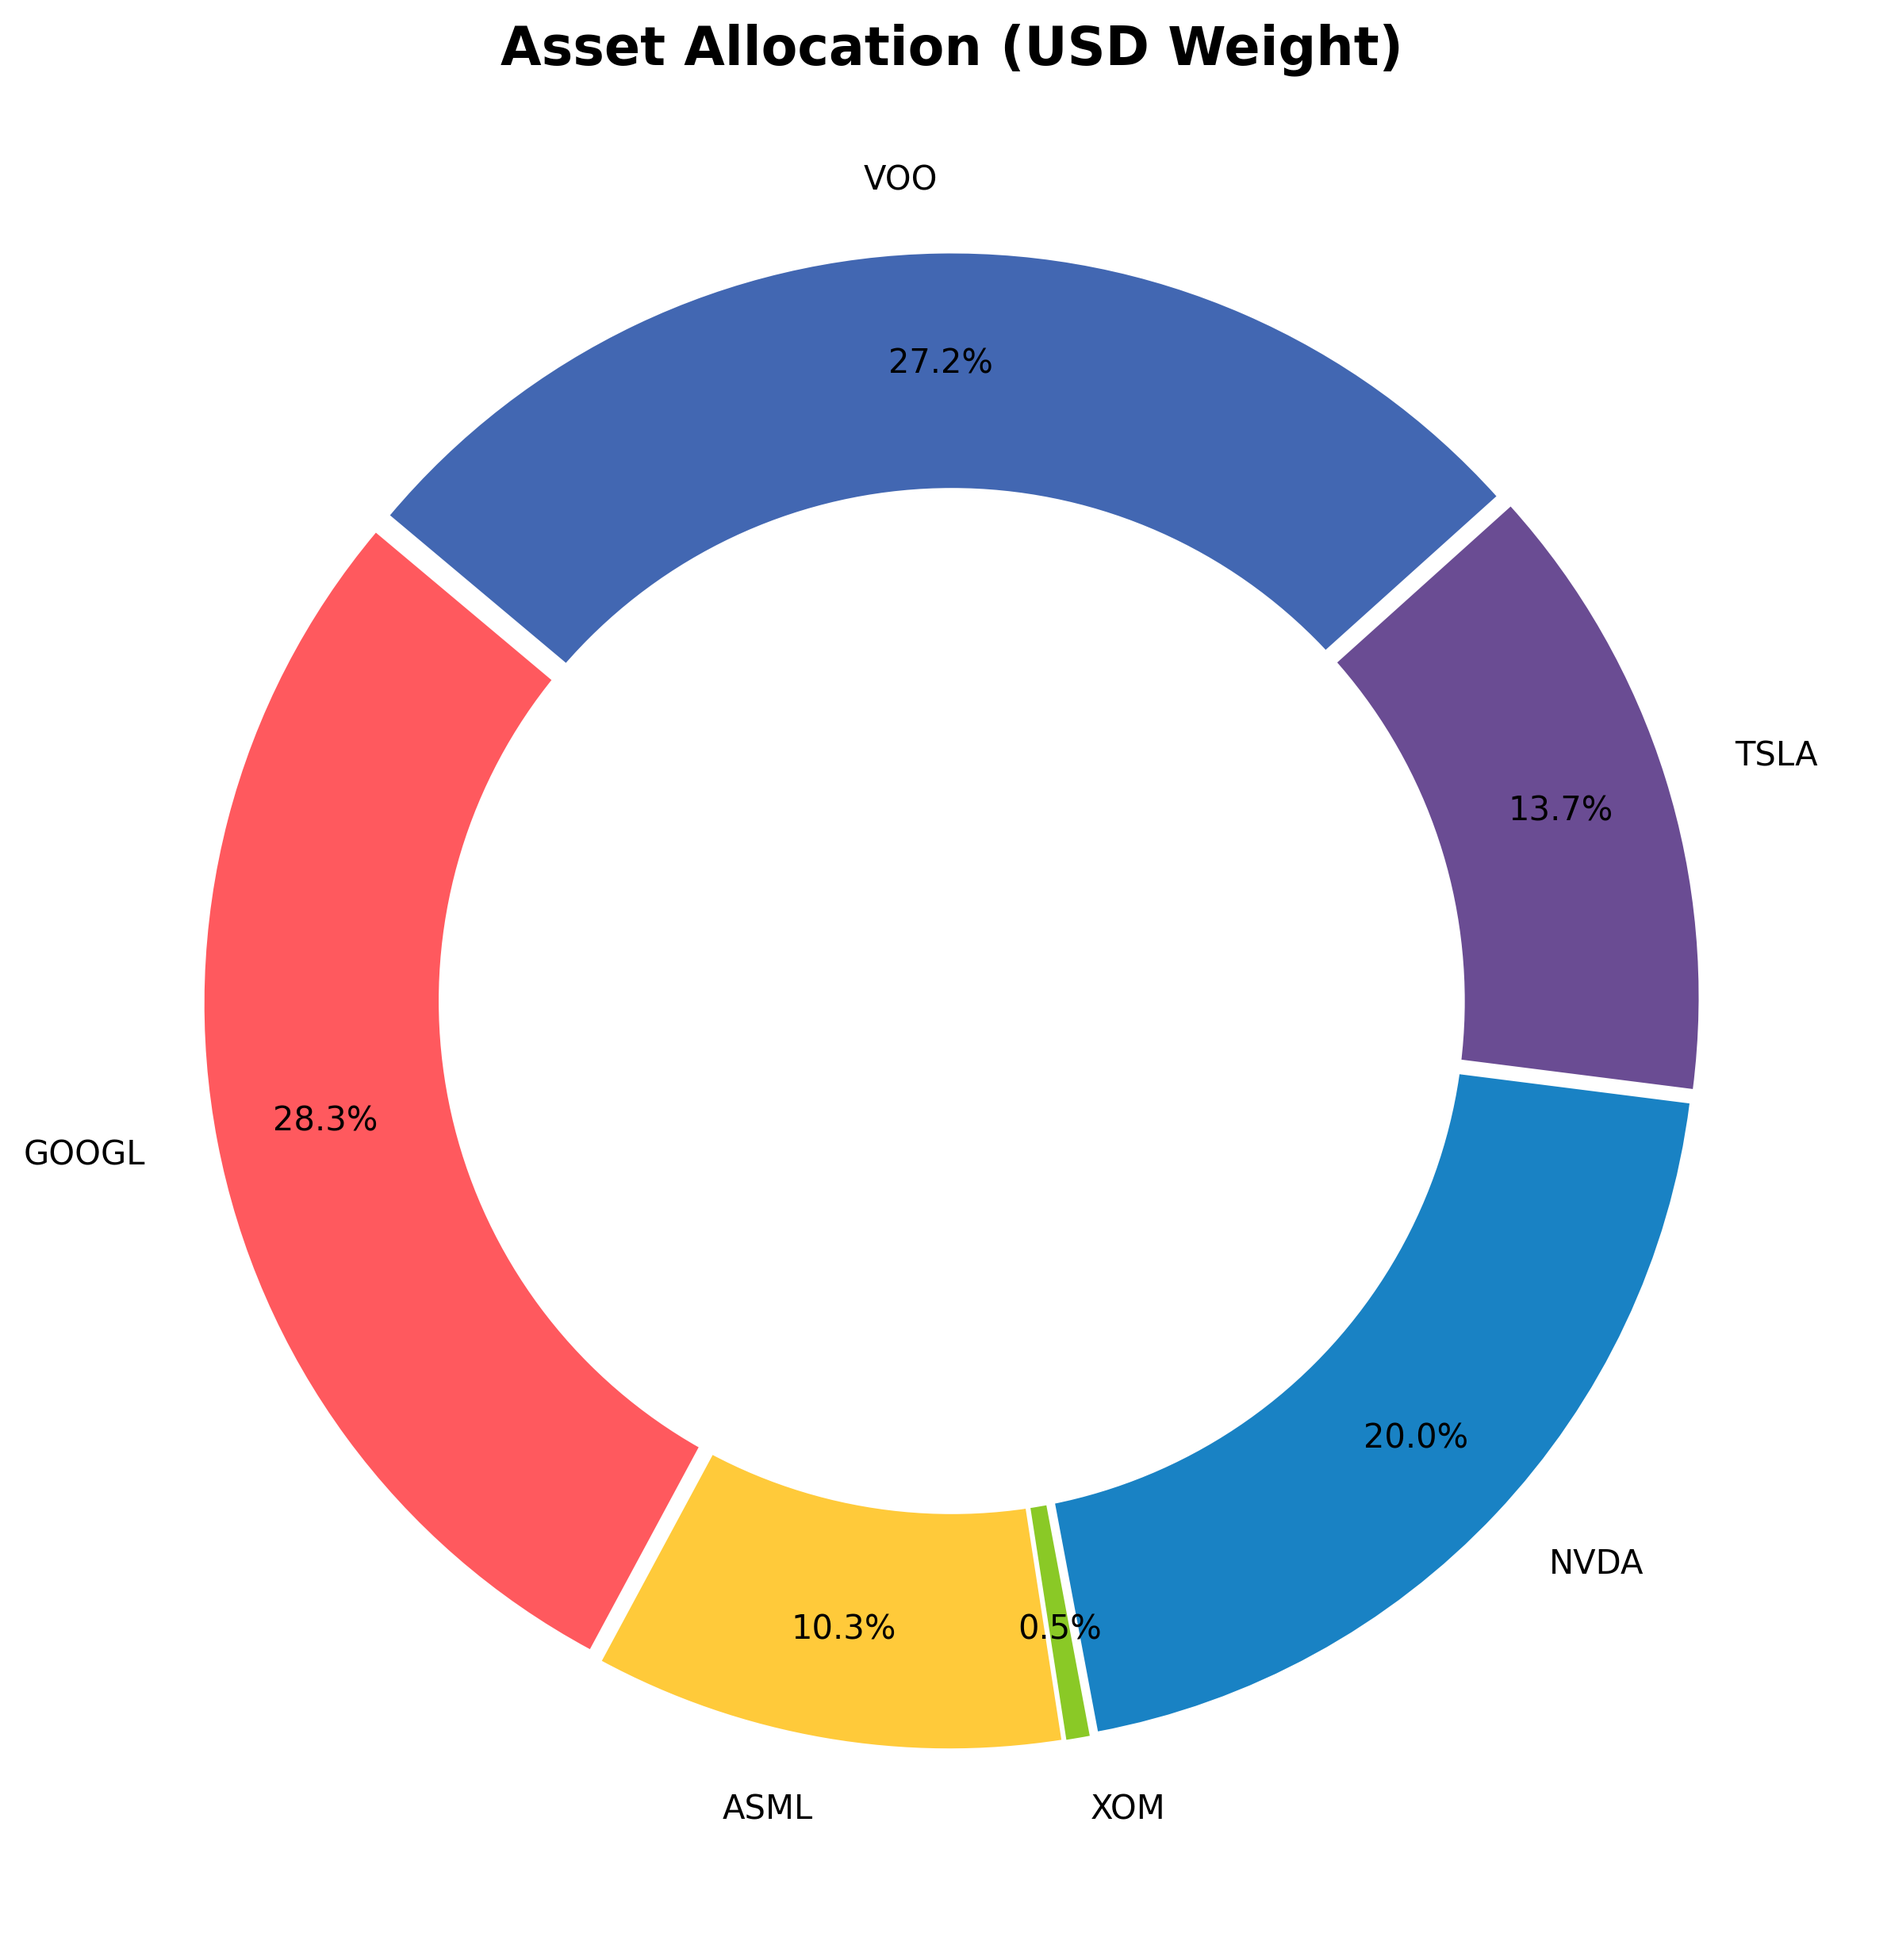
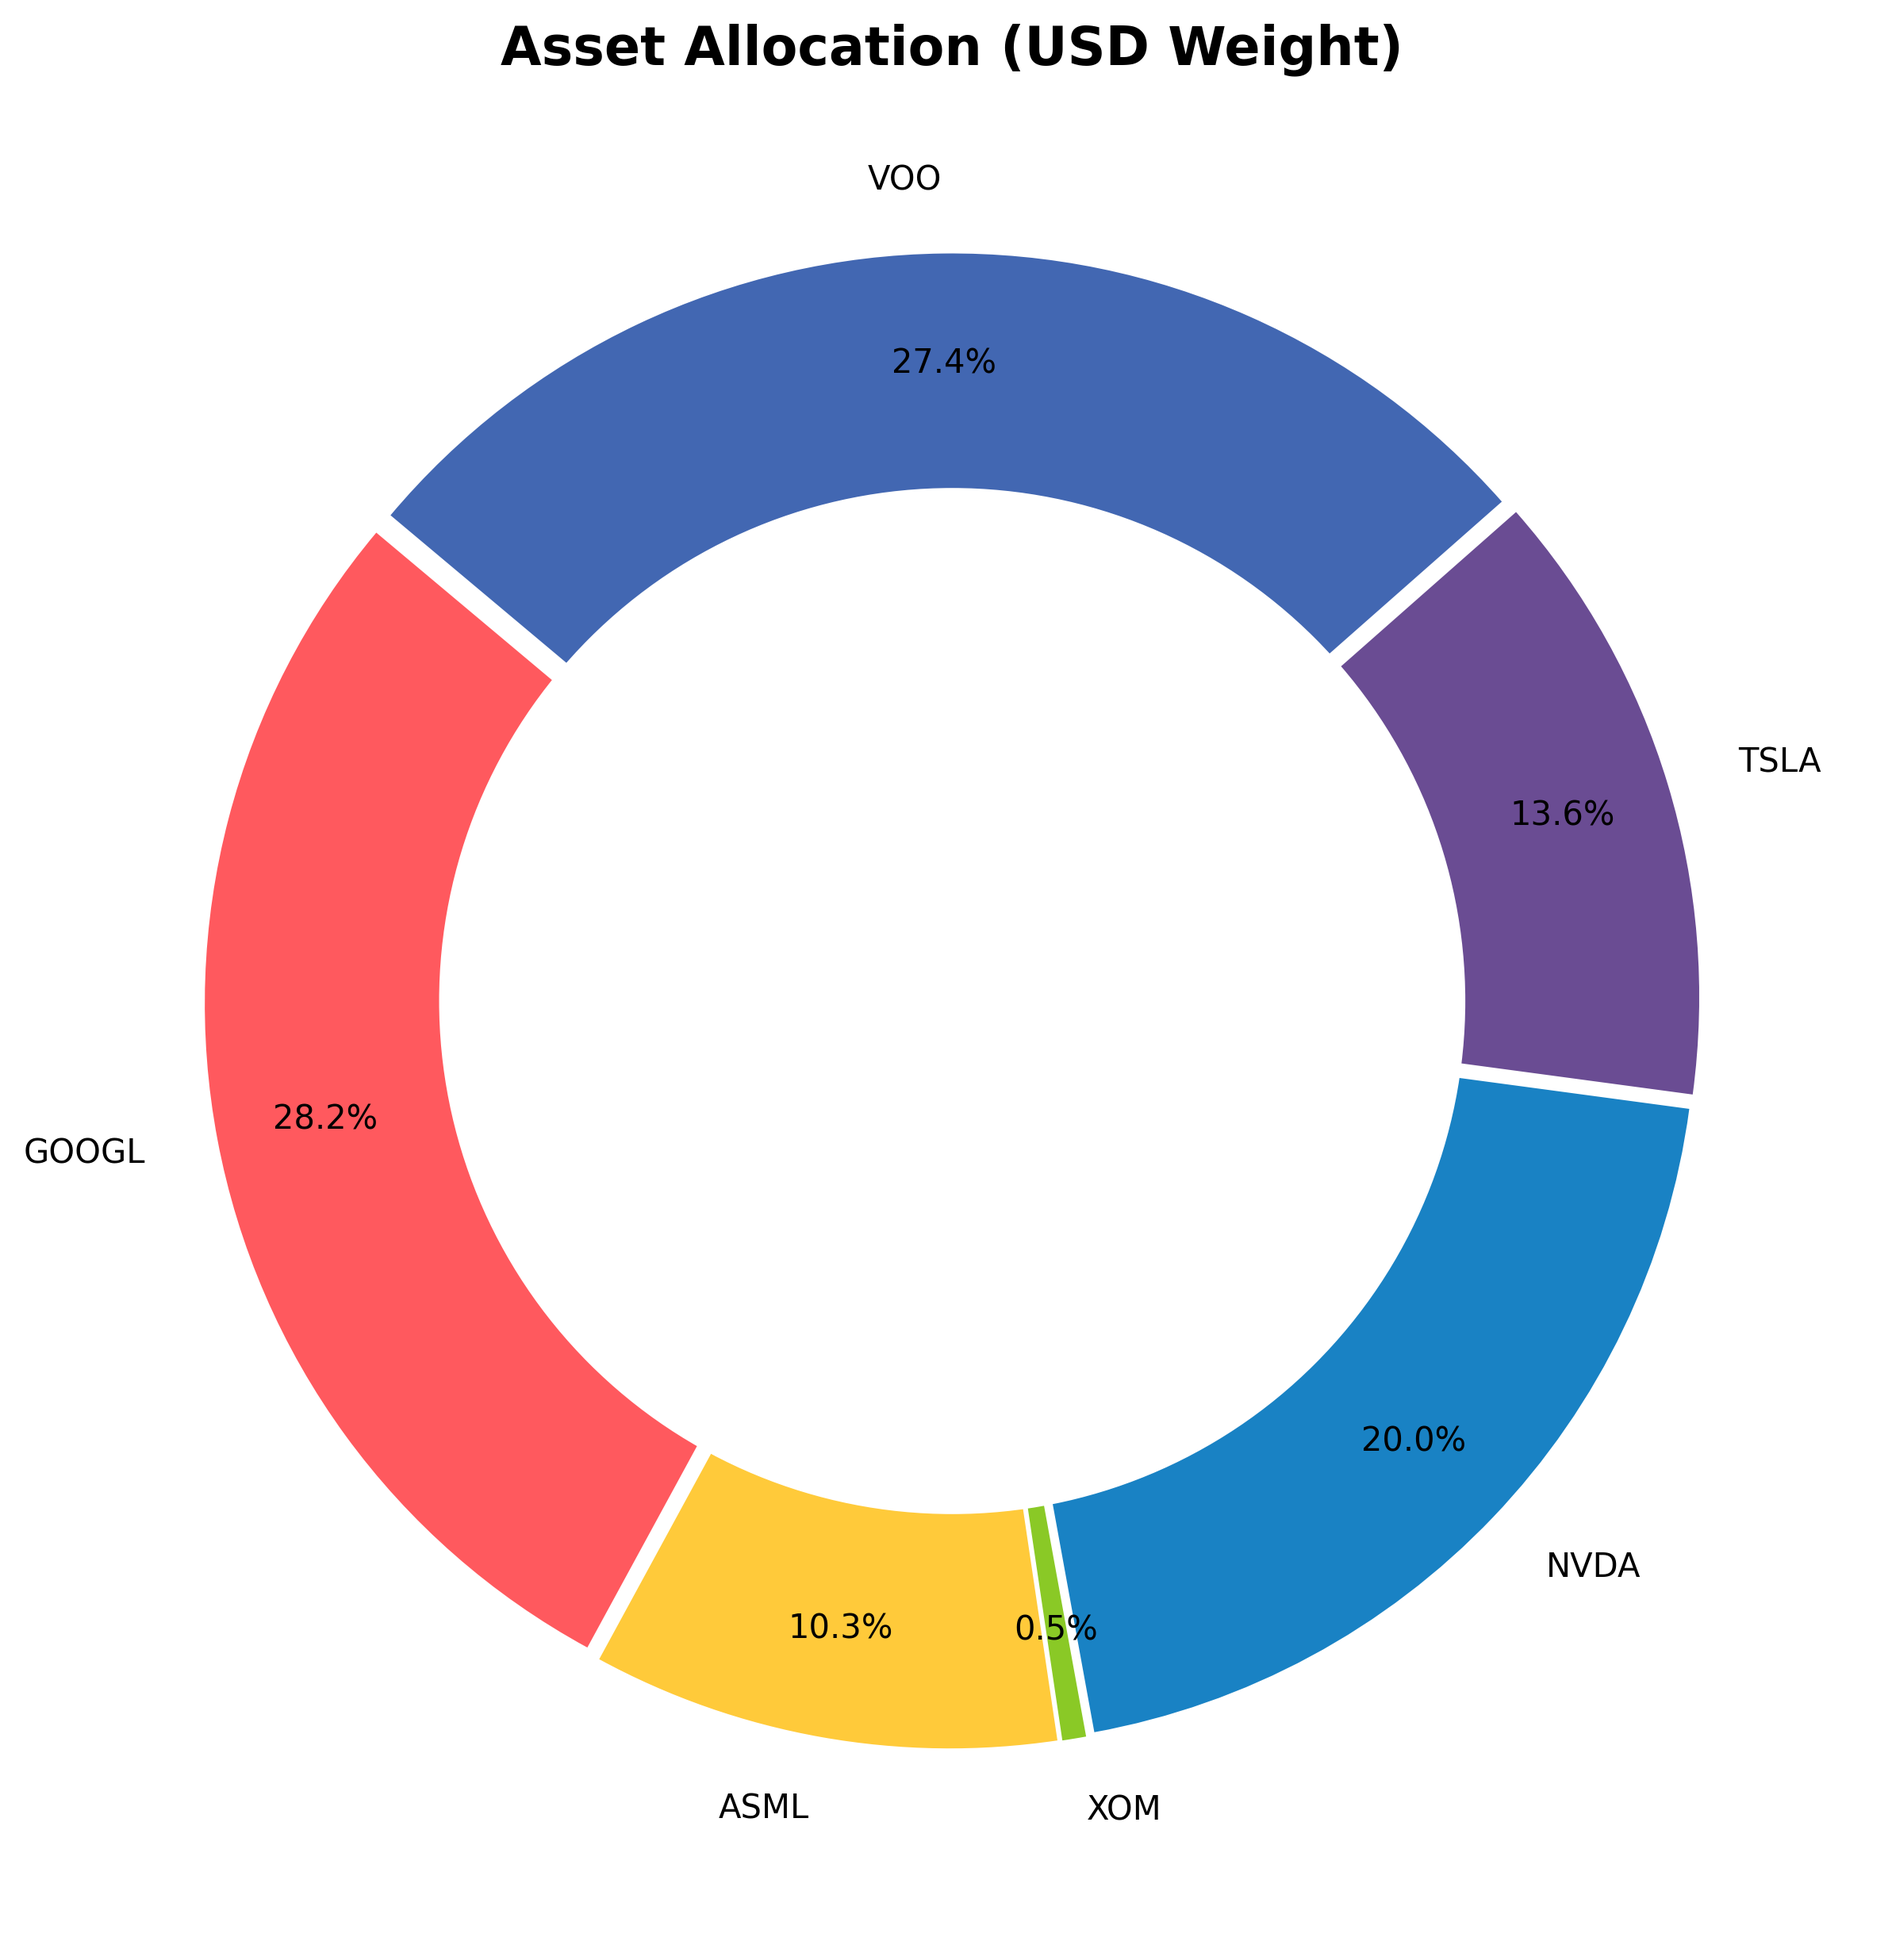
System Run: Analytics & Archive Update [skip ci]

diff --git a/README.md b/README.md
@@ -1,23 +1,23 @@
 # 📊 Portfolio Dashboard | מעקב תיק השקעות
-**Last Update:** 21/04/2026 18:19 | **USD/ILS:** ₪3.002
+**Last Update:** 21/04/2026 20:11 | **USD/ILS:** ₪3.014
 
 ## 💰 Portfolio Summary | סיכום התיק
 | Metric | Value | נתון |
 | :--- | :--- | :--- |
-| **Current Value** | `₪172,109` | **שווי נוכחי** |
-| **Total Invested** | `₪128,691` | **סך השקעה** |
-| **Total Profit/Loss** | `+33.74%` (₪43,418) | **רווח/הפסד כולל** |
-| **Daily Change** | `-0.64%` | **שינוי יומי** |
+| **Current Value** | `₪171,164` | **שווי נוכחי** |
+| **Total Invested** | `₪129,222` | **סך השקעה** |
+| **Total Profit/Loss** | `+32.46%` (₪41,942) | **רווח/הפסד כולל** |
+| **Daily Change** | `-0.51%` | **שינוי יומי** |
 
 ## 📜 Holdings | פירוט החזקות
 | Ticker | Shares | Avg. Cost | Current Price | P&L % | P&L ILS |
 | :--- | :--- | :--- | :--- | :--- | :--- |
-| GOOGL | 48 | $187.99 | $337.46 | 🟢 +79.51% | ₪21,537 |
-| ASML | 4 | $934.51 | $1,477.00 | 🟢 +58.05% | ₪6,514 |
-| XOM | 2 | $126.08 | $147.68 | 🟢 +17.13% | ₪130 |
-| NVDA | 57 | $148.62 | $201.47 | 🟢 +35.56% | ₪9,043 |
-| TSLA | 20 | $436.45 | $391.87 | 🔴 -10.21% | ₪-2,676 |
-| VOO | 24 | $527.38 | $650.52 | 🟢 +23.35% | ₪8,871 |
+| GOOGL | 48 | $187.99 | $333.35 | 🟢 +77.32% | ₪21,031 |
+| ASML | 4 | $934.51 | $1,459.73 | 🟢 +56.20% | ₪6,332 |
+| XOM | 2 | $126.08 | $148.40 | 🟢 +17.70% | ₪135 |
+| NVDA | 57 | $148.62 | $199.25 | 🟢 +34.07% | ₪8,699 |
+| TSLA | 20 | $436.45 | $386.98 | 🔴 -11.33% | ₪-2,982 |
+| VOO | 24 | $527.38 | $648.02 | 🟢 +22.88% | ₪8,727 |
 
 ## 📈 Charts | גרפים
 ![Performance](./data_hub/portfolio_performance.png)
